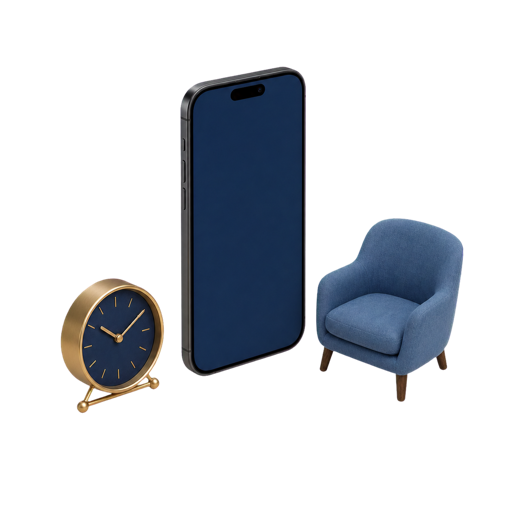
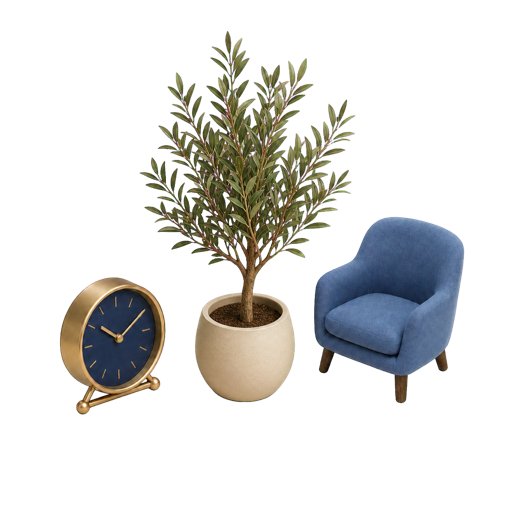
Replace waiting room phone with indoor tree

diff --git a/public/b2c/krane-b2c.html b/public/b2c/krane-b2c.html
@@ -1122,7 +1122,7 @@
     <div class="screen__top"><button class="back" data-back>‹</button><span class="ttl">Waiting room</span></div>
     <div class="screen__body state-view center">
       <div class="state-view__visual state-view__visual--loading" role="status" aria-label="Waiting for the doctor">
-        <span class="state-view__tile state-view__tile--cutout loading-illustration" aria-hidden="true"><img src="assets/loading-v2/waiting-room.png" alt="" loading="lazy" decoding="async"></span>
+        <span class="state-view__tile state-view__tile--cutout loading-illustration" aria-hidden="true"><img src="assets/loading-v2/waiting-room.png?v=20260804a" alt="" loading="lazy" decoding="async"></span>
         <span class="state-view__badge"><i data-lucide="video" class="ui-icon" aria-hidden="true"></i></span>
       </div>
       <div class="state-view__copy">
